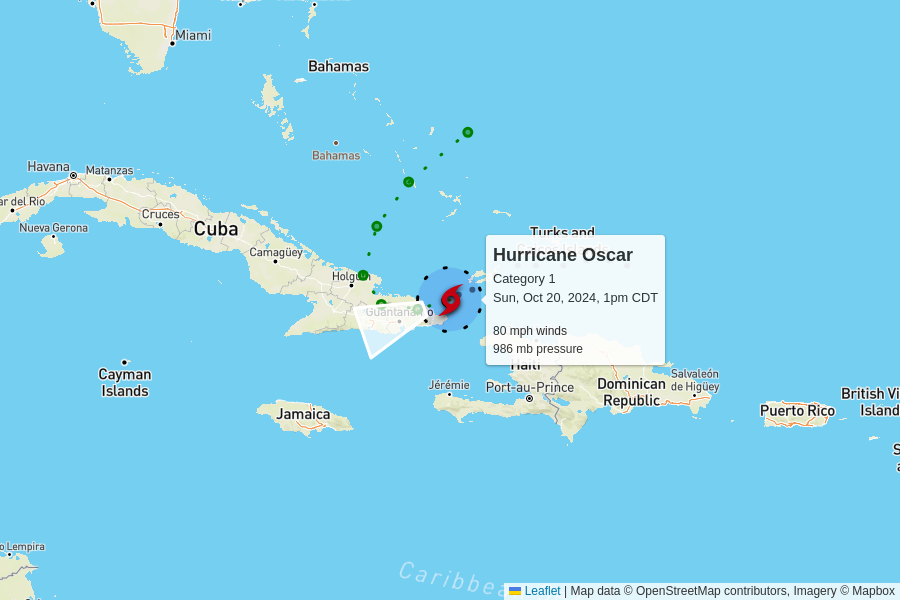
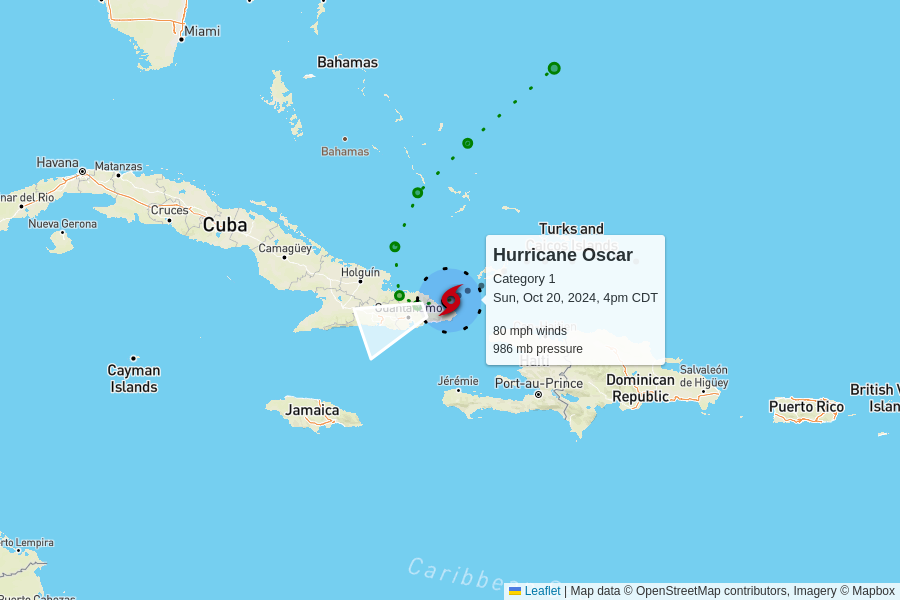
automatic update

diff --git a/docs/index.html b/docs/index.html
@@ -102,7 +102,7 @@
         <td colspan="6" class="storm category-1" >
           <h2>
             Hurricane Oscar - Category 1
-            <p class="updated">last updated <span data-time>2024-10-20T18:00:00.000Z</span></p>
+            <p class="updated">last updated <span data-time>2024-10-20T21:00:00.000Z</span></p>
           </h2>
         </td>
       </tr>
@@ -120,7 +120,7 @@
         <td>80 mph<br>0 mph since last update</td>
         <td>986 mb<br>0 mb since last update</td>
         <td>
-          7 mph to the west-southwest
+          6 mph to the west-southwest
           <br/>
           <span style="display: inline-block; font-size: 1.5em; transform: rotate(250deg);">↑</span>
         </td>
